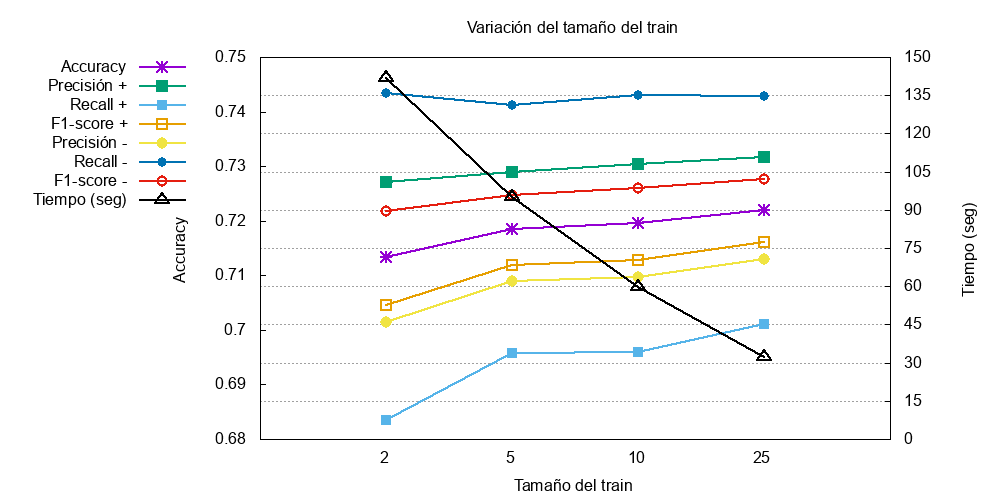
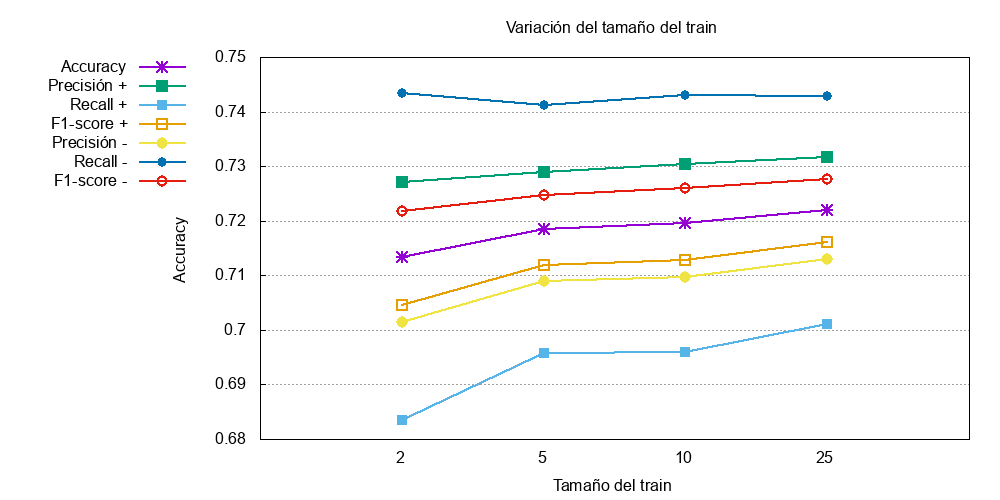
ignore csv Signed-off-by:GarbiSebastian <garbyseba@gmail.com>

diff --git a/herramientas/resultadosFolds.py b/herramientas/resultadosFolds.py
@@ -50,7 +50,7 @@ g = Gnuplot.Gnuplot()
 g.xlabel("Tamaño del train")
 g("set key top left outside ")
 g("set terminal png size 1000, 500")
-#g("set grid y")
+g("set grid y")
 #g("set style data histograms")
 #g("set style histogram rowstacked")
 g("set boxwidth 0.8")
@@ -59,10 +59,10 @@ g("set xtics("+xtics+") scale 0")
 g("set xrange [-1:"+str(len(folds))+"]")
 g("set ytics nomirror")
 
-g("set y2range [0:150]")
+"""g("set y2range [0:150]")
 g("set y2label 'Tiempo (seg)'")
 g("set y2tics 15")
-g("set grid y2")
+g("set grid y2")"""
 
 s = range(len(folds))
 d1 = Gnuplot.Data(s,pos_precision,using="2", title="Precisión +",with_="linespoint lw 2 ps 1.6 pt 5")
@@ -79,7 +79,8 @@ d8 = Gnuplot.Data(s,tiempos,using="2", title="Tiempo (seg)", with_="linespoints 
 g.ylabel("Accuracy")
 g("set output 'accuracy-variacion-fold.png'")
 g.title("Variación del tamaño del train")
-g.plot(d7,d1,d3,d5,d2,d4,d6,d8)
+g.plot(d7,d1,d3,d5,d2,d4,d6)
+#g.plot(d7,d1,d3,d5,d2,d4,d6,d8)
 #g.plot(d7,d1,d2,d3,d4,d5,d6,d8)
 #g.plot(d1)
 g("unset yrange")
